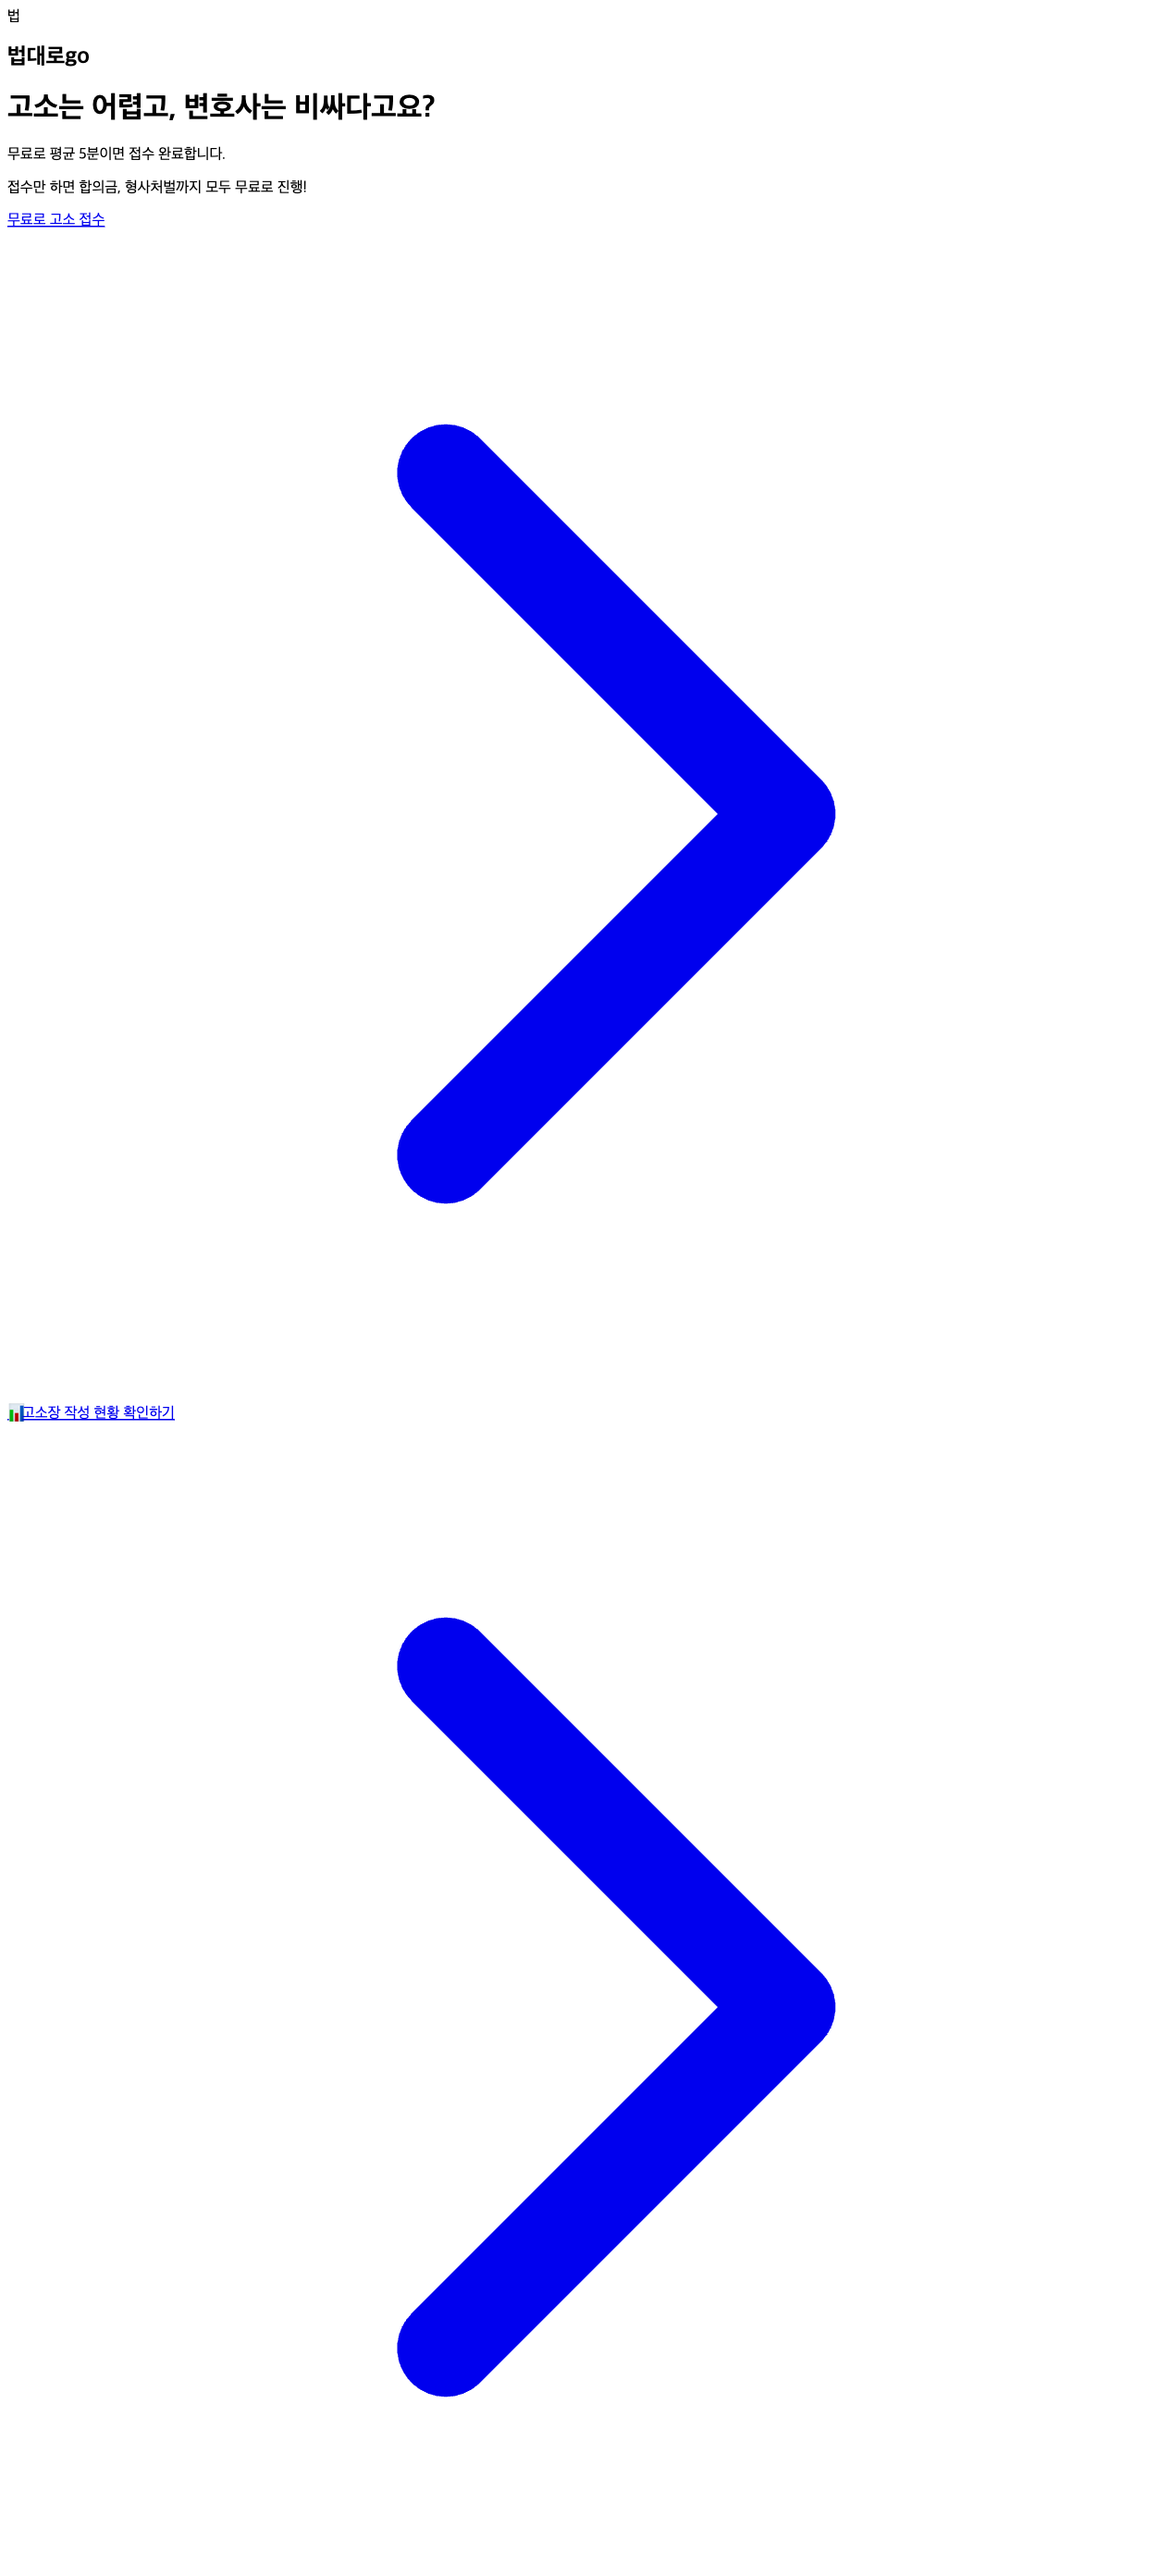
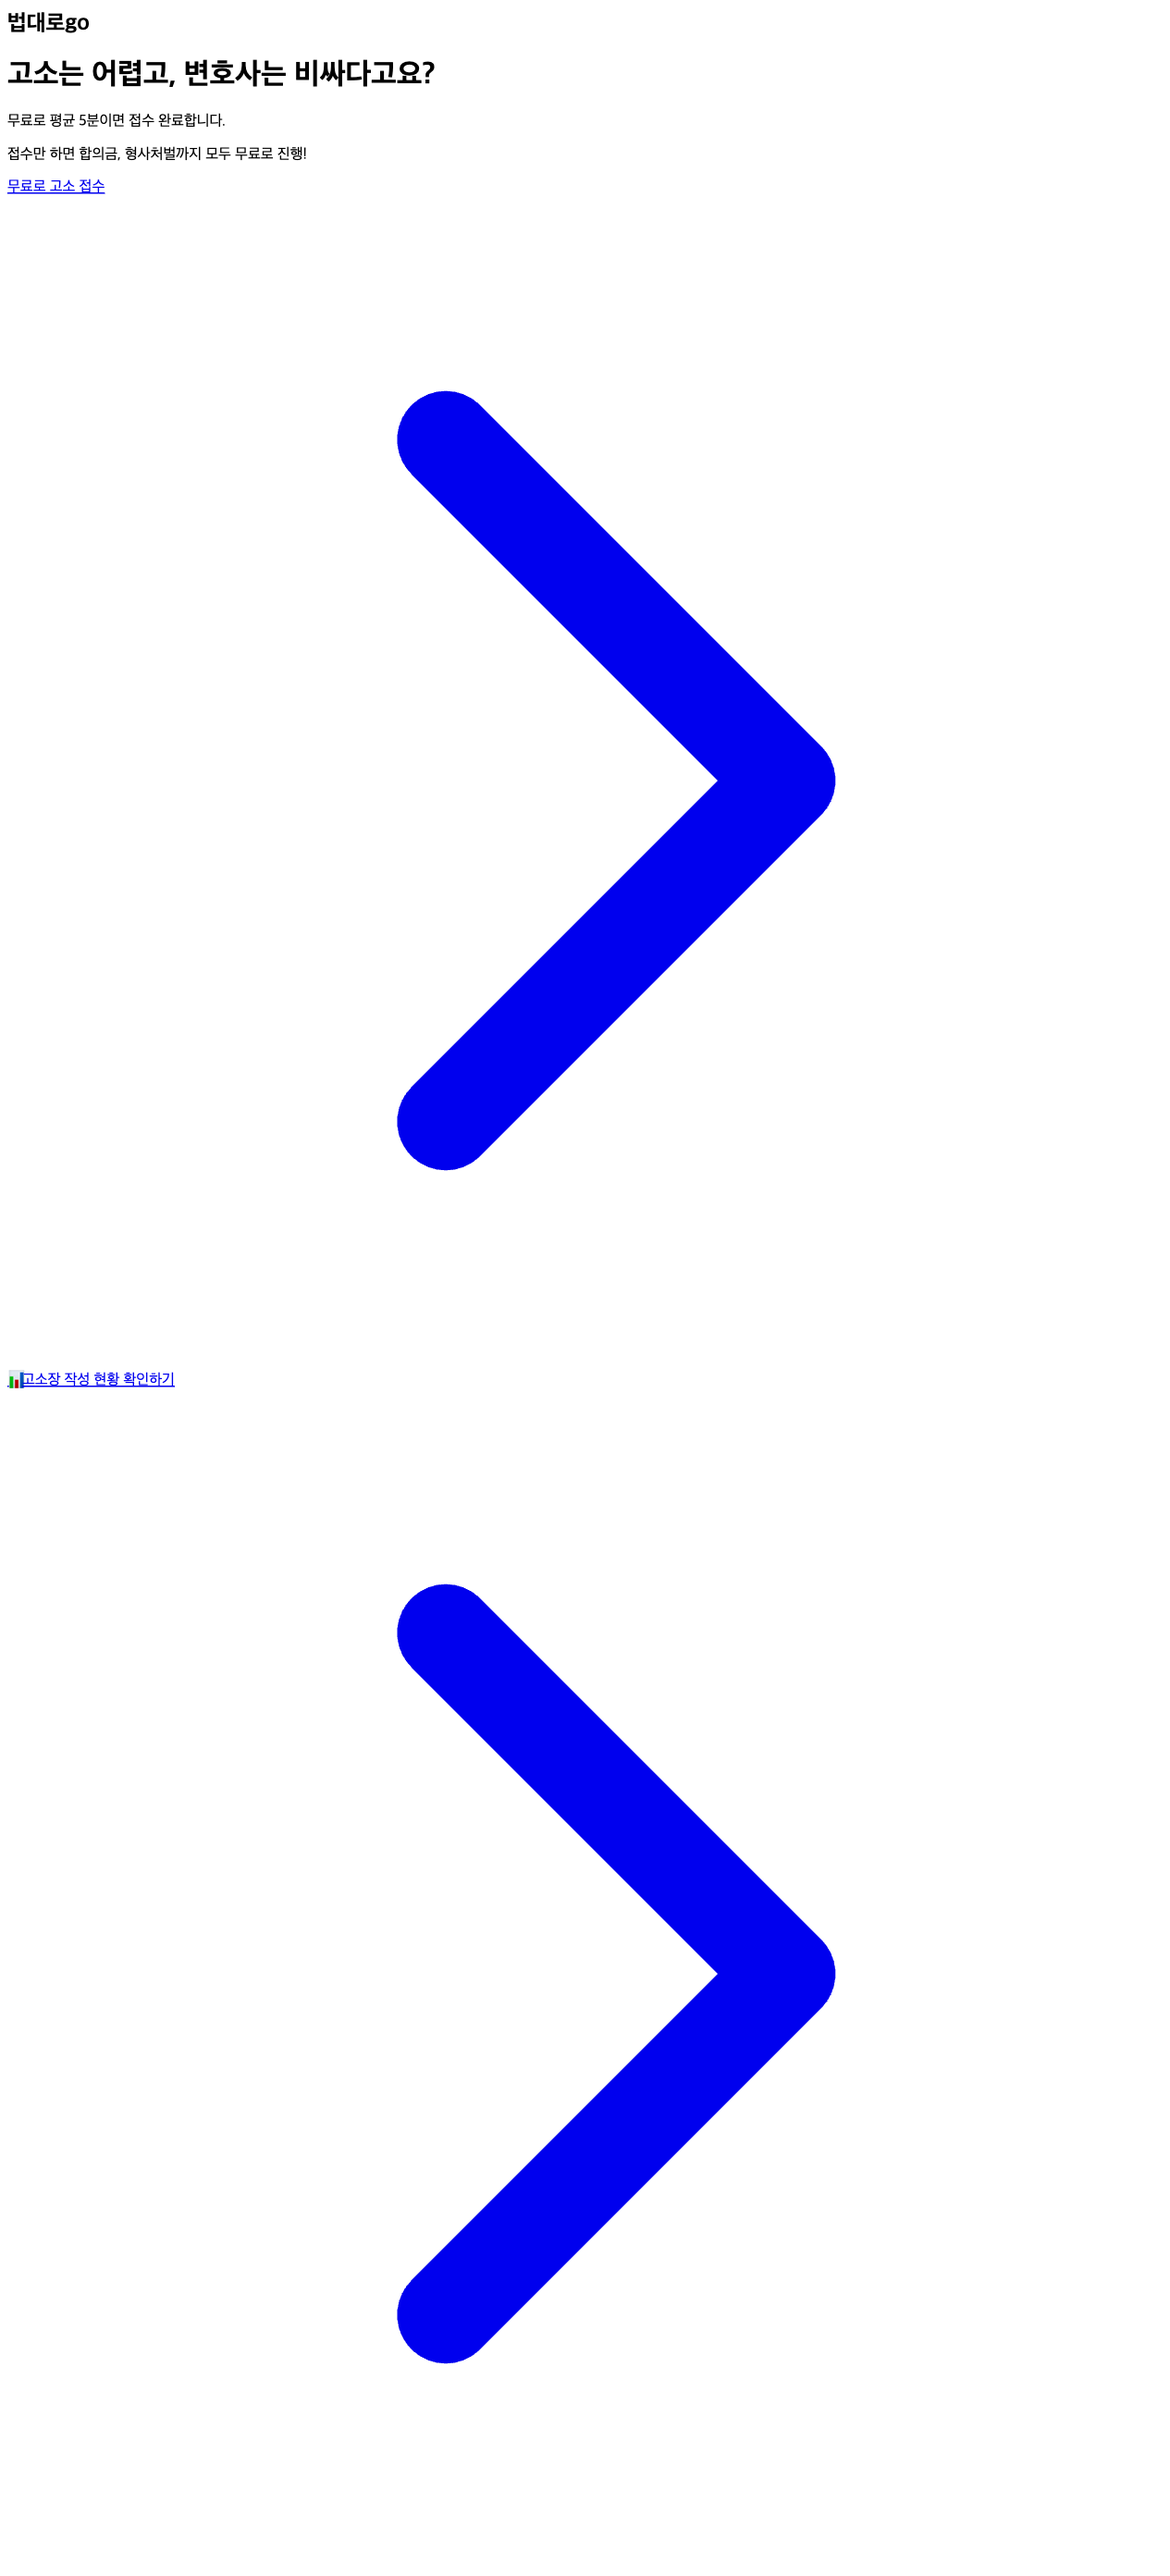
Complete redesign of main page with professional landing page layout
- Replace simple blue gradient with structured landing page design
- Add professional navigation header with logo and menu
- Implement feature cards showcasing key benefits (speed, free, AI)
- Create main action area with prominent CTA button
- Add trust indicators and user statistics (1,000+ users)
- Include mobile floating action button
- Apply fade-in animations with staggered delays
- Use modern card-based layout with proper spacing
- Implement Toss-style design system throughout

🤖 Generated with [Claude Code](https://claude.ai/code)

diff --git a/src/app/page.tsx b/src/app/page.tsx
@@ -2,58 +2,152 @@ import Link from "next/link";
 
 export default function Home() {
   return (
-    <div className="h-screen bg-gradient-to-br from-blue-600 via-blue-500 to-blue-400 flex items-center justify-center relative overflow-hidden">
-      {/* 로고 및 브랜드 */}
-      <div className="absolute top-8 left-8">
-        <div className="flex items-center space-x-3">
-          <div className="w-12 h-12 bg-white/20 backdrop-blur-sm rounded-2xl flex items-center justify-center border border-white/30">
-            <span className="text-white font-bold text-xl">법</span>
-          </div>
-          <h2 className="text-2xl font-bold text-white">법대로go</h2>
-        </div>
+    <div className="min-h-screen bg-gradient-to-br from-blue-50 via-white to-indigo-50 relative overflow-hidden">
+      {/* 백그라운드 장식 요소 */}
+      <div className="absolute inset-0 overflow-hidden">
+        <div className="absolute -top-40 -right-40 w-80 h-80 bg-blue-100 rounded-full mix-blend-multiply filter blur-xl opacity-70"></div>
+        <div className="absolute -bottom-40 -left-40 w-80 h-80 bg-indigo-100 rounded-full mix-blend-multiply filter blur-xl opacity-70"></div>
       </div>
-      
-      <div className="max-w-5xl mx-auto px-8 text-center text-white">
-        <div className="space-y-12">
-          {/* 메인 타이틀 - 훨씬 큰 폰트 */}
-          <h1 className="text-5xl md:text-7xl lg:text-8xl font-bold leading-tight">
-            고소는 어렵고, 변호사는 비싸다고요?
-          </h1>
+
+      {/* 네비게이션 헤더 */}
+      <nav className="relative z-10 p-6 lg:p-8">
+        <div className="flex items-center justify-between max-w-7xl mx-auto">
+          <div className="flex items-center space-x-3">
+            <div className="w-10 h-10 bg-blue-600 rounded-xl flex items-center justify-center shadow-lg">
+              <span className="text-white font-bold text-lg">법</span>
+            </div>
+            <span className="text-xl font-bold text-gray-800">법대로go</span>
+          </div>
           
-          {/* 부제목 */}
-          <p className="text-2xl md:text-3xl font-medium opacity-90">
-            무료로 평균 5분이면 접수 완료합니다.
-          </p>
+          <Link 
+            href="/cases" 
+            className="text-gray-600 hover:text-blue-600 font-medium transition-colors duration-200"
+          >
+            작성 현황
+          </Link>
+        </div>
+      </nav>
+
+      {/* 메인 컨텐츠 */}
+      <div className="relative z-10 max-w-6xl mx-auto px-6 lg:px-8 pt-20 pb-32">
+        <div className="text-center space-y-12">
           
-          {/* 액션 메시지 */}
-          <div className="bg-white/15 backdrop-blur-sm rounded-3xl p-8 border border-white/25 shadow-lg">
-            <p className="text-xl md:text-2xl font-semibold">
-              접수만 하면 합의금, 형사처벌까지 모두 무료로 진행!
+          {/* 메인 타이틀 */}
+          <div className="space-y-6 fade-in-up">
+            <h1 className="text-4xl md:text-6xl lg:text-7xl font-bold text-gray-900 leading-tight">
+              고소는 어렵고,<br />
+              <span className="text-blue-600">변호사는 비싸다고요?</span>
+            </h1>
+            
+            <p className="text-xl md:text-2xl text-gray-600 font-medium max-w-3xl mx-auto">
+              AI가 도와드립니다. 평균 <span className="text-blue-600 font-semibold">5분</span>이면 무료로 접수 완료
             </p>
           </div>
-          
-          {/* 메인 버튼 - 화살표 제거 */}
-          <div className="pt-6">
-            <Link
-              href="/submit"
-              className="inline-block bg-white text-blue-600 font-bold text-2xl px-16 py-6 rounded-3xl hover:bg-blue-50 transition-all duration-300 shadow-2xl hover:shadow-3xl transform hover:scale-105 hover:-translate-y-2 focus:ring-4 focus:ring-white/50"
-              aria-label="무료로 고소 접수하기"
-            >
-              무료로 고소 접수
-            </Link>
+
+          {/* 특징 카드들 */}
+          <div className="grid md:grid-cols-3 gap-6 lg:gap-8 max-w-4xl mx-auto">
+            <div className="toss-card text-center space-y-4 fade-in-up" style={{animationDelay: '0.1s'}}>
+              <div className="w-12 h-12 bg-blue-100 rounded-xl flex items-center justify-center mx-auto">
+                <span className="text-2xl">⚡</span>
+              </div>
+              <h3 className="font-semibold text-gray-900">빠른 처리</h3>
+              <p className="text-gray-600 text-sm">평균 5분 내로<br />고소장 작성 완료</p>
+            </div>
+            
+            <div className="toss-card text-center space-y-4 fade-in-up" style={{animationDelay: '0.2s'}}>
+              <div className="w-12 h-12 bg-green-100 rounded-xl flex items-center justify-center mx-auto">
+                <span className="text-2xl">💰</span>
+              </div>
+              <h3 className="font-semibold text-gray-900">완전 무료</h3>
+              <p className="text-gray-600 text-sm">접수부터 합의금,<br />형사처벌까지 무료</p>
+            </div>
+            
+            <div className="toss-card text-center space-y-4 fade-in-up" style={{animationDelay: '0.3s'}}>
+              <div className="w-12 h-12 bg-purple-100 rounded-xl flex items-center justify-center mx-auto">
+                <span className="text-2xl">🤖</span>
+              </div>
+              <h3 className="font-semibold text-gray-900">AI 지원</h3>
+              <p className="text-gray-600 text-sm">전문 법률 지식을<br />쉽게 안내</p>
+            </div>
           </div>
-          
-          {/* 간단한 네비게이션 - 실제 버튼 스타일 */}
-          <div className="pt-6">
-            <Link
-              href="/cases"
-              className="inline-flex items-center space-x-3 bg-white/10 backdrop-blur-sm text-white text-lg font-medium px-8 py-4 rounded-2xl border border-white/25 hover:bg-white/20 hover:border-white/40 transition-all duration-300 shadow-lg hover:shadow-xl hover:scale-105"
-            >
-              <span className="text-xl">📊</span>
-              <span>고소장 작성 현황 확인하기</span>
-            </Link>
+
+          {/* 메인 액션 영역 */}
+          <div className="bg-white rounded-3xl shadow-xl border border-gray-100 p-8 lg:p-12 max-w-2xl mx-auto fade-in-up" style={{animationDelay: '0.4s'}}>
+            <div className="space-y-8">
+              <div className="space-y-4">
+                <h2 className="text-2xl lg:text-3xl font-bold text-gray-900">
+                  지금 바로 시작하세요
+                </h2>
+                <p className="text-gray-600">
+                  복잡한 법률 절차를 간단하게. 전문가 수준의 고소장을 몇 분 만에 완성하세요.
+                </p>
+              </div>
+              
+              {/* 메인 CTA 버튼 */}
+              <Link
+                href="/submit"
+                className="toss-button-primary w-full text-xl py-5 block text-center group"
+                aria-label="무료로 고소장 작성 시작하기"
+              >
+                <span className="flex items-center justify-center space-x-3">
+                  <span>무료로 고소장 작성하기</span>
+                  <svg 
+                    className="w-5 h-5 transform group-hover:translate-x-1 transition-transform duration-200" 
+                    fill="none" 
+                    stroke="currentColor" 
+                    viewBox="0 0 24 24"
+                  >
+                    <path strokeLinecap="round" strokeLinejoin="round" strokeWidth={2} d="M9 5l7 7-7 7" />
+                  </svg>
+                </span>
+              </Link>
+              
+              {/* 보조 정보 */}
+              <div className="flex items-center justify-center space-x-6 text-sm text-gray-500">
+                <div className="flex items-center space-x-2">
+                  <div className="w-2 h-2 bg-green-400 rounded-full"></div>
+                  <span>개인정보 보호</span>
+                </div>
+                <div className="flex items-center space-x-2">
+                  <div className="w-2 h-2 bg-blue-400 rounded-full"></div>
+                  <span>24시간 접수</span>
+                </div>
+                <div className="flex items-center space-x-2">
+                  <div className="w-2 h-2 bg-purple-400 rounded-full"></div>
+                  <span>전문가 검토</span>
+                </div>
+              </div>
+            </div>
+          </div>
+
+          {/* 부가 정보 섹션 */}
+          <div className="max-w-4xl mx-auto">
+            <div className="bg-gray-50 rounded-2xl p-6 lg:p-8 fade-in-up" style={{animationDelay: '0.5s'}}>
+              <div className="text-center space-y-4">
+                <h3 className="text-lg font-semibold text-gray-900">
+                  이미 <span className="text-blue-600">1,000+</span>명이 이용했어요
+                </h3>
+                <p className="text-gray-600 text-sm max-w-2xl mx-auto">
+                  전문 변호사가 검토한 AI 시스템으로 정확하고 빠른 고소장 작성이 가능합니다. 
+                  복잡한 법률 용어도 쉽게 이해할 수 있도록 안내해드려요.
+                </p>
+              </div>
+            </div>
           </div>
         </div>
+      </div>
+
+      {/* 플로팅 액션 버튼 (모바일용) */}
+      <div className="fixed bottom-6 right-6 z-20 md:hidden">
+        <Link
+          href="/submit"
+          className="w-14 h-14 bg-blue-600 hover:bg-blue-700 text-white rounded-full shadow-lg flex items-center justify-center transition-all duration-200 hover:scale-110"
+          aria-label="고소장 작성하기"
+        >
+          <svg className="w-6 h-6" fill="none" stroke="currentColor" viewBox="0 0 24 24">
+            <path strokeLinecap="round" strokeLinejoin="round" strokeWidth={2} d="M12 4v16m8-8H4" />
+          </svg>
+        </Link>
       </div>
     </div>
   );
